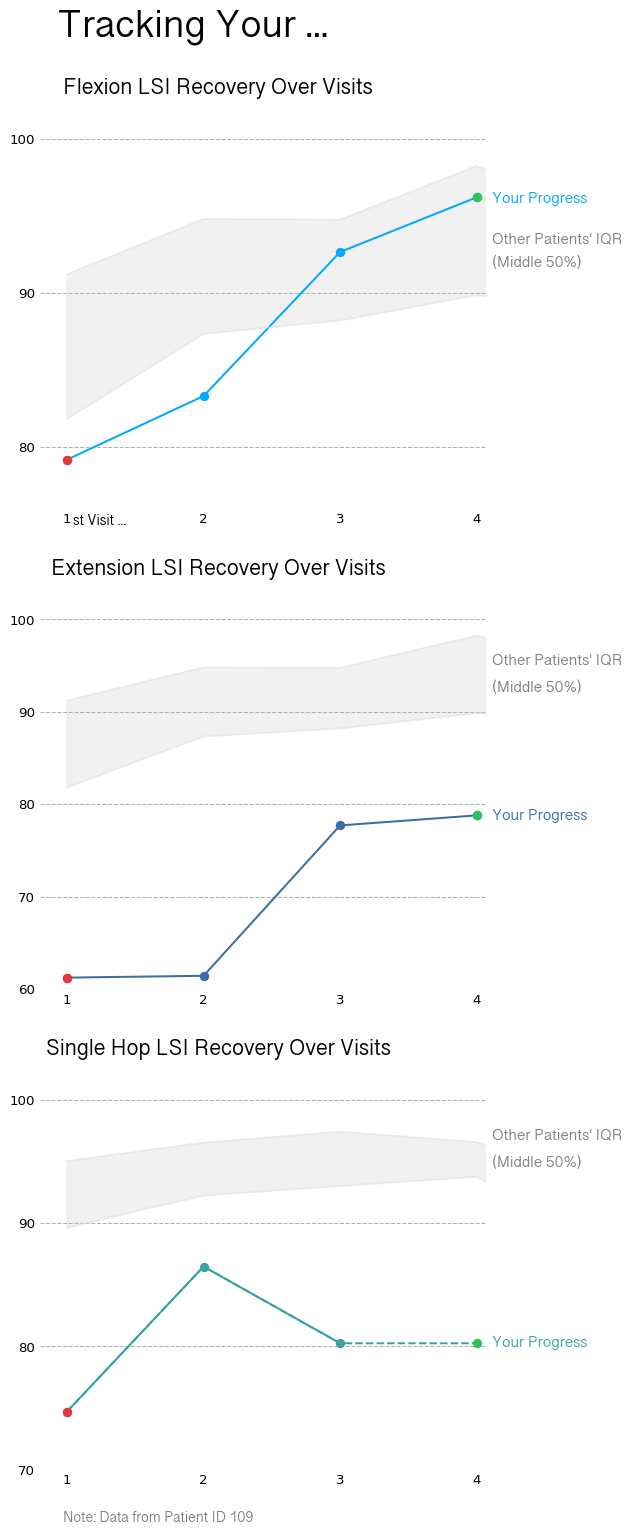
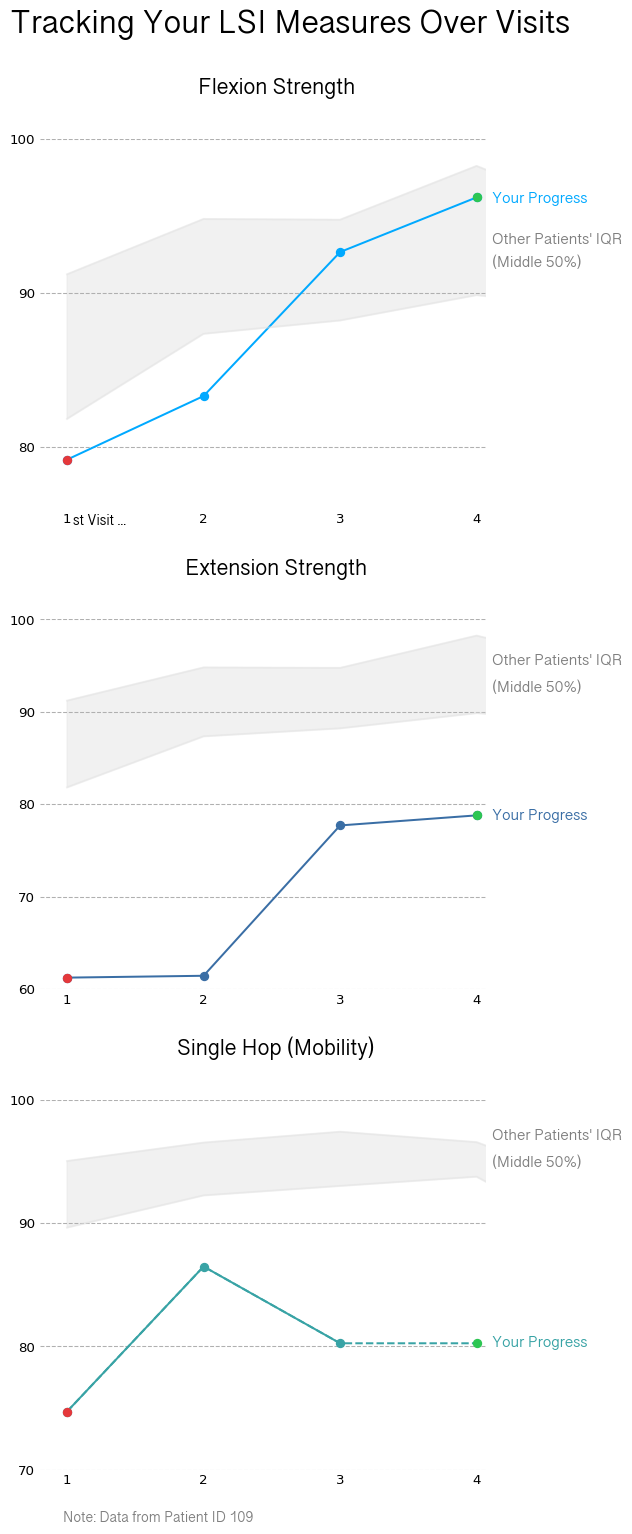
minor graph changes

diff --git a/docs/Graphs/Visualizations_book.html b/docs/Graphs/Visualizations_book.html
@@ -6,9 +6,9 @@
 
 <meta name="viewport" content="width=device-width, initial-scale=1.0, user-scalable=yes">
 
-<meta name="description" content="An outline for the DS2023 Communicating with Data final project report.">
+<meta name="description" content="An outline for DS2023 Communicating with Data final project report.">
 
-<title>Visualizations – DS2023 Final Project (Rename)</title>
+<title>Visualizations – You’re Pulling My Leg:Visualizing a Patient’s ACLR Journey</title>
 <style>
 code{white-space: pre-wrap;}
 span.smallcaps{font-variant: small-caps;}
@@ -135,7 +135,7 @@ pre > code.sourceCode > span > a:first-child::before { text-decoration: underlin
       <img src="../logo.png" alt="" class="sidebar-logo py-0 d-lg-inline d-none">
       </a>
     <div class="sidebar-title mb-0 py-0">
-      <a href="../">DS2023 Final Project (Rename)</a> 
+      <a href="../">You’re Pulling My Leg:<br>Visualizing a Patient’s ACLR Journey</a> 
         <div class="sidebar-tools-main">
     <a href="https://github.com/mayooueidat-uva/ACLR-group-project/tree/main" title="Source Code" class="quarto-navigation-tool px-1" aria-label="Source Code"><i class="bi bi-github"></i></a>
 </div>
@@ -217,7 +217,7 @@ pre > code.sourceCode > span > a:first-child::before { text-decoration: underlin
 </header>
 
 
-<div id="c96afa53" class="cell" data-execution_count="1">
+<div id="dad07fcb" class="cell" data-execution_count="1">
 <div class="sourceCode cell-code" id="cb1"><pre class="sourceCode python code-with-copy"><code class="sourceCode python"><span id="cb1-1"><a href="#cb1-1" aria-hidden="true" tabindex="-1"></a><span class="im">import</span> matplotlib.pyplot <span class="im">as</span> plt</span>
 <span id="cb1-2"><a href="#cb1-2" aria-hidden="true" tabindex="-1"></a><span class="im">import</span> pandas <span class="im">as</span> pd</span>
 <span id="cb1-3"><a href="#cb1-3" aria-hidden="true" tabindex="-1"></a><span class="im">import</span> numpy <span class="im">as</span> np</span>
@@ -230,7 +230,7 @@ pre > code.sourceCode > span > a:first-child::before { text-decoration: underlin
 <h2 class="anchored" data-anchor-id="graph-1-flexion-lsi-over-time">Graph 1: Flexion LSI over time</h2>
 <p>When it comes to a <strong>patient</strong> understanding <strong>their</strong> ACLR recovery, being able to visually see changes across time makes understanding their recovery progress easier. Through a line plot, a patient can visually see that progression over multiple visits, allowing them to notice any irregularities that go against the general pattern, which is usually an increase in the recovery statistic. Additionally, having a background population of patients who also underwent ACLR surgery acts as a comparison point, allowing them to compare themselves to a group of people who have gone through a similar recovery process. Having the patient be able to picture themselves in the data is important, as we want for them to understand where they stand in recovery without explicitly knowing miniscule details about medical terminology. Sometimes, seeing yourself as a positive sloping line among a positive sloping population is enough to understand that recovery is going smoothly.</p>
 <p>This is a line graph that captures a single patient’s recovery progress for Flexion LSI (using a randomly chosen patient with at least 4 visits). Additionally, it has Flexion LSI data over visits from all the patients in the study, which acts as a comparison point for the patient. The population data is shaded to show the IQR, which is the 25th to 75th percentile. My goal is for the patient to be able to picture himself/herself in recovery and understand that test results usually get better over time.</p>
-<div id="edd832e2" class="cell" data-execution_count="2">
+<div id="75baa289" class="cell" data-execution_count="2">
 <div class="sourceCode cell-code" id="cb2"><pre class="sourceCode python code-with-copy"><code class="sourceCode python"><span id="cb2-1"><a href="#cb2-1" aria-hidden="true" tabindex="-1"></a><span class="co"># Plot IQR 25 to 75, and fill the space between</span></span>
 <span id="cb2-2"><a href="#cb2-2" aria-hidden="true" tabindex="-1"></a>plt.plot(flsi_percentiles[<span class="st">'visit_num'</span>], flsi_percentiles[<span class="st">'q25'</span>], color<span class="op">=</span><span class="st">"#E5E5E5"</span>, alpha<span class="op">=</span><span class="fl">0.5</span>)</span>
 <span id="cb2-3"><a href="#cb2-3" aria-hidden="true" tabindex="-1"></a>plt.plot(flsi_percentiles[<span class="st">'visit_num'</span>], flsi_percentiles[<span class="st">'q75'</span>], color<span class="op">=</span><span class="st">"#E5E5E5"</span>, alpha<span class="op">=</span><span class="fl">0.5</span>)</span>
@@ -254,7 +254,7 @@ pre > code.sourceCode > span > a:first-child::before { text-decoration: underlin
 <span id="cb2-21"><a href="#cb2-21" aria-hidden="true" tabindex="-1"></a>plt.figtext(<span class="fl">0.91</span>, <span class="fl">0.76</span>, <span class="st">'Your Progress'</span>, size <span class="op">=</span> <span class="dv">12</span>, color<span class="op">=</span><span class="st">'#00A9FF'</span>, fontfamily<span class="op">=</span><span class="st">'Sinhala Sangam MN'</span>)</span>
 <span id="cb2-22"><a href="#cb2-22" aria-hidden="true" tabindex="-1"></a>plt.figtext(<span class="fl">0.91</span>, <span class="fl">0.68</span>, <span class="st">"Other Patients' IQR"</span>, size <span class="op">=</span> <span class="dv">12</span>, color<span class="op">=</span><span class="st">'gray'</span>, fontfamily<span class="op">=</span><span class="st">'Sinhala Sangam MN'</span>)</span>
 <span id="cb2-23"><a href="#cb2-23" aria-hidden="true" tabindex="-1"></a>plt.figtext(<span class="fl">0.91</span>, <span class="fl">0.63</span>, <span class="st">"(Middle 50%)"</span>, size <span class="op">=</span> <span class="dv">12</span>, color<span class="op">=</span><span class="st">'gray'</span>, fontfamily<span class="op">=</span><span class="st">'Sinhala Sangam MN'</span>)</span>
-<span id="cb2-24"><a href="#cb2-24" aria-hidden="true" tabindex="-1"></a>plt.figtext(<span class="fl">0.182</span>, <span class="fl">0.0755</span>, <span class="st">"st Visit ..."</span>, size <span class="op">=</span> <span class="dv">11</span>, color<span class="op">=</span><span class="st">'black'</span>, fontfamily<span class="op">=</span><span class="st">'Sinhala Sangam MN'</span>)</span>
+<span id="cb2-24"><a href="#cb2-24" aria-hidden="true" tabindex="-1"></a>plt.figtext(<span class="fl">0.182</span>, <span class="fl">0.076</span>, <span class="st">"st Visit ..."</span>, size <span class="op">=</span> <span class="dv">11</span>, color<span class="op">=</span><span class="st">'black'</span>, fontfamily<span class="op">=</span><span class="st">'Sinhala Sangam MN'</span>)</span>
 <span id="cb2-25"><a href="#cb2-25" aria-hidden="true" tabindex="-1"></a>plt.figtext(<span class="fl">0.165</span>, <span class="fl">0.019</span>, <span class="st">"Note: Data from Patient ID 109"</span>, size <span class="op">=</span> <span class="dv">11</span>, color<span class="op">=</span><span class="st">'gray'</span>, fontfamily<span class="op">=</span><span class="st">'Sinhala Sangam MN'</span>)</span>
 <span id="cb2-26"><a href="#cb2-26" aria-hidden="true" tabindex="-1"></a></span>
 <span id="cb2-27"><a href="#cb2-27" aria-hidden="true" tabindex="-1"></a><span class="co"># Customize graph</span></span>
@@ -287,7 +287,7 @@ pre > code.sourceCode > span > a:first-child::before { text-decoration: underlin
 <section id="graph-1-continued-line-plot-series" class="level2">
 <h2 class="anchored" data-anchor-id="graph-1-continued-line-plot-series">Graph 1 Continued: Line Plot Series</h2>
 <p>As a continuation from the first graph, this visualization shows subplots of three LSI (limb symmetry index) scores across visits. Patients may find it helpful to see how their different functional assessments differ. The goal of this graph is for the patient to easily see their improvements or deficiencies.</p>
-<div id="2308d306" class="cell" data-execution_count="3">
+<div id="4b838096" class="cell" data-execution_count="3">
 <div class="sourceCode cell-code" id="cb3"><pre class="sourceCode python code-with-copy"><code class="sourceCode python"><span id="cb3-1"><a href="#cb3-1" aria-hidden="true" tabindex="-1"></a><span class="co"># Create data for subplots</span></span>
 <span id="cb3-2"><a href="#cb3-2" aria-hidden="true" tabindex="-1"></a></span>
 <span id="cb3-3"><a href="#cb3-3" aria-hidden="true" tabindex="-1"></a><span class="co"># Extension LSI</span></span>
@@ -318,7 +318,7 @@ pre > code.sourceCode > span > a:first-child::before { text-decoration: underlin
 <span id="cb3-28"><a href="#cb3-28" aria-hidden="true" tabindex="-1"></a>sh_lsi_percentiles[<span class="st">'visit_num'</span>] <span class="op">=</span> sh_lsi_percentiles[<span class="st">'redcap_event_name'</span>].<span class="bu">map</span>(visit_map)</span>
 <span id="cb3-29"><a href="#cb3-29" aria-hidden="true" tabindex="-1"></a>sh_lsi_percentiles <span class="op">=</span> sh_lsi_percentiles[sh_lsi_percentiles[<span class="st">'redcap_event_name'</span>] <span class="op">!=</span> <span class="st">'data_upload_arm_2'</span>]</span></code><button title="Copy to Clipboard" class="code-copy-button"><i class="bi"></i></button></pre></div>
 </div>
-<div id="9c591c9c" class="cell" data-execution_count="4">
+<div id="11a4782e" class="cell" data-execution_count="4">
 <div class="sourceCode cell-code" id="cb4"><pre class="sourceCode python code-with-copy"><code class="sourceCode python"><span id="cb4-1"><a href="#cb4-1" aria-hidden="true" tabindex="-1"></a>fig, axs <span class="op">=</span> plt.subplots(<span class="dv">3</span>,<span class="dv">1</span>, figsize<span class="op">=</span>(<span class="dv">6</span>, <span class="dv">18</span>)) <span class="co"># set the figure size and have 3 small multiples within the figure</span></span>
 <span id="cb4-2"><a href="#cb4-2" aria-hidden="true" tabindex="-1"></a></span>
 <span id="cb4-3"><a href="#cb4-3" aria-hidden="true" tabindex="-1"></a>axs <span class="op">=</span> axs.flatten()</span>
@@ -339,7 +339,7 @@ pre > code.sourceCode > span > a:first-child::before { text-decoration: underlin
 <span id="cb4-18"><a href="#cb4-18" aria-hidden="true" tabindex="-1"></a>axs[<span class="dv">0</span>].plot(highlight_data[<span class="st">'visit_num'</span>].iloc[<span class="dv">3</span>], highlight_data[<span class="st">'lsi_flex_isok_60'</span>].iloc[<span class="dv">3</span>], marker<span class="op">=</span><span class="st">'o'</span>, color<span class="op">=</span><span class="st">'#2DC653'</span>, markersize<span class="op">=</span><span class="dv">6</span>)</span>
 <span id="cb4-19"><a href="#cb4-19" aria-hidden="true" tabindex="-1"></a></span>
 <span id="cb4-20"><a href="#cb4-20" aria-hidden="true" tabindex="-1"></a><span class="co"># Add title and customize graph</span></span>
-<span id="cb4-21"><a href="#cb4-21" aria-hidden="true" tabindex="-1"></a>axs[<span class="dv">0</span>].set_title(<span class="st">'Flexion LSI Recovery Over Visits'</span>, weight<span class="op">=</span><span class="st">'bold'</span>, size<span class="op">=</span><span class="dv">17</span>, x<span class="op">=</span><span class="fl">0.4</span>, y<span class="op">=</span><span class="fl">1.1</span>, fontfamily<span class="op">=</span><span class="st">'Sinhala Sangam MN'</span>)</span>
+<span id="cb4-21"><a href="#cb4-21" aria-hidden="true" tabindex="-1"></a>axs[<span class="dv">0</span>].set_title(<span class="st">'Flexion Strength'</span>, weight<span class="op">=</span><span class="st">'bold'</span>, size<span class="op">=</span><span class="dv">17</span>, x<span class="op">=</span><span class="fl">0.53</span>, y<span class="op">=</span><span class="fl">1.1</span>, fontfamily<span class="op">=</span><span class="st">'Sinhala Sangam MN'</span>)</span>
 <span id="cb4-22"><a href="#cb4-22" aria-hidden="true" tabindex="-1"></a>axs[<span class="dv">0</span>].set_xlim(<span class="fl">.8</span>, <span class="fl">4.07</span>)</span>
 <span id="cb4-23"><a href="#cb4-23" aria-hidden="true" tabindex="-1"></a>axs[<span class="dv">0</span>].set_xticks([<span class="dv">1</span>, <span class="dv">2</span>, <span class="dv">3</span>, <span class="dv">4</span>])</span>
 <span id="cb4-24"><a href="#cb4-24" aria-hidden="true" tabindex="-1"></a>axs[<span class="dv">0</span>].set_ylim(<span class="dv">76</span>, <span class="dv">100</span>)</span>
@@ -370,7 +370,7 @@ pre > code.sourceCode > span > a:first-child::before { text-decoration: underlin
 <span id="cb4-49"><a href="#cb4-49" aria-hidden="true" tabindex="-1"></a>axs[<span class="dv">1</span>].plot(highlight_data[<span class="st">'visit_num'</span>].iloc[<span class="dv">3</span>], highlight_data[<span class="st">'lsi_ext_isok_60'</span>].iloc[<span class="dv">3</span>], marker<span class="op">=</span><span class="st">'o'</span>, color<span class="op">=</span><span class="st">'#2DC653'</span>, markersize<span class="op">=</span><span class="dv">6</span>)</span>
 <span id="cb4-50"><a href="#cb4-50" aria-hidden="true" tabindex="-1"></a></span>
 <span id="cb4-51"><a href="#cb4-51" aria-hidden="true" tabindex="-1"></a><span class="co"># Add title and customize graph</span></span>
-<span id="cb4-52"><a href="#cb4-52" aria-hidden="true" tabindex="-1"></a>axs[<span class="dv">1</span>].set_title(<span class="st">'Extension LSI Recovery Over Visits'</span>, weight<span class="op">=</span><span class="st">'bold'</span>, size<span class="op">=</span><span class="dv">17</span>, x<span class="op">=</span><span class="fl">0.4</span>, y<span class="op">=</span><span class="fl">1.1</span>, fontfamily<span class="op">=</span><span class="st">'Sinhala Sangam MN'</span>)</span>
+<span id="cb4-52"><a href="#cb4-52" aria-hidden="true" tabindex="-1"></a>axs[<span class="dv">1</span>].set_title(<span class="st">'Extension Strength'</span>, weight<span class="op">=</span><span class="st">'bold'</span>, size<span class="op">=</span><span class="dv">17</span>, x<span class="op">=</span><span class="fl">0.53</span>, y<span class="op">=</span><span class="fl">1.1</span>, fontfamily<span class="op">=</span><span class="st">'Sinhala Sangam MN'</span>)</span>
 <span id="cb4-53"><a href="#cb4-53" aria-hidden="true" tabindex="-1"></a>axs[<span class="dv">1</span>].set_xlim(<span class="fl">.8</span>, <span class="fl">4.07</span>)</span>
 <span id="cb4-54"><a href="#cb4-54" aria-hidden="true" tabindex="-1"></a>axs[<span class="dv">1</span>].set_xticks([<span class="dv">1</span>, <span class="dv">2</span>, <span class="dv">3</span>, <span class="dv">4</span>])</span>
 <span id="cb4-55"><a href="#cb4-55" aria-hidden="true" tabindex="-1"></a>axs[<span class="dv">1</span>].set_ylim(<span class="dv">60</span>, <span class="dv">100</span>)</span>
@@ -403,7 +403,7 @@ pre > code.sourceCode > span > a:first-child::before { text-decoration: underlin
 <span id="cb4-82"><a href="#cb4-82" aria-hidden="true" tabindex="-1"></a>axs[<span class="dv">2</span>].plot(highlight_data[<span class="st">'visit_num'</span>].iloc[<span class="dv">3</span>], interpolated_sh_lsi.iloc[<span class="dv">3</span>], marker<span class="op">=</span><span class="st">'o'</span>, color<span class="op">=</span><span class="st">'#2DC653'</span>, markersize<span class="op">=</span><span class="dv">6</span>)</span>
 <span id="cb4-83"><a href="#cb4-83" aria-hidden="true" tabindex="-1"></a></span>
 <span id="cb4-84"><a href="#cb4-84" aria-hidden="true" tabindex="-1"></a><span class="co"># Add title and customize graph</span></span>
-<span id="cb4-85"><a href="#cb4-85" aria-hidden="true" tabindex="-1"></a>axs[<span class="dv">2</span>].set_title(<span class="st">'Single Hop LSI Recovery Over Visits'</span>, weight<span class="op">=</span><span class="st">'bold'</span>, size<span class="op">=</span><span class="dv">17</span>, x<span class="op">=</span><span class="fl">0.4</span>, y<span class="op">=</span><span class="fl">1.1</span>, fontfamily<span class="op">=</span><span class="st">'Sinhala Sangam MN'</span>)</span>
+<span id="cb4-85"><a href="#cb4-85" aria-hidden="true" tabindex="-1"></a>axs[<span class="dv">2</span>].set_title(<span class="st">'Single Hop (Mobility)'</span>, weight<span class="op">=</span><span class="st">'bold'</span>, size<span class="op">=</span><span class="dv">17</span>, x<span class="op">=</span><span class="fl">0.53</span>, y<span class="op">=</span><span class="fl">1.1</span>, fontfamily<span class="op">=</span><span class="st">'Sinhala Sangam MN'</span>)</span>
 <span id="cb4-86"><a href="#cb4-86" aria-hidden="true" tabindex="-1"></a>axs[<span class="dv">2</span>].set_xlim(<span class="fl">.8</span>, <span class="fl">4.07</span>)</span>
 <span id="cb4-87"><a href="#cb4-87" aria-hidden="true" tabindex="-1"></a>axs[<span class="dv">2</span>].set_xticks([<span class="dv">1</span>, <span class="dv">2</span>, <span class="dv">3</span>, <span class="dv">4</span>])</span>
 <span id="cb4-88"><a href="#cb4-88" aria-hidden="true" tabindex="-1"></a>axs[<span class="dv">2</span>].set_ylim(<span class="dv">70</span>, <span class="dv">100</span>)</span>
@@ -422,7 +422,7 @@ pre > code.sourceCode > span > a:first-child::before { text-decoration: underlin
 <span id="cb4-101"><a href="#cb4-101" aria-hidden="true" tabindex="-1"></a><span class="co"># Overall graph customizations ---------------------------------------------------------------------------------------------------------------</span></span>
 <span id="cb4-102"><a href="#cb4-102" aria-hidden="true" tabindex="-1"></a>plt.figtext(<span class="fl">0.182</span>, <span class="fl">0.657</span>, <span class="st">"st Visit ..."</span>, size <span class="op">=</span> <span class="dv">11</span>, color<span class="op">=</span><span class="st">'black'</span>, fontfamily<span class="op">=</span><span class="st">'Sinhala Sangam MN'</span>)</span>
 <span id="cb4-103"><a href="#cb4-103" aria-hidden="true" tabindex="-1"></a>plt.figtext(<span class="fl">0.165</span>, <span class="fl">0.08</span>, <span class="st">"Note: Data from Patient ID 109"</span>, size<span class="op">=</span><span class="dv">11</span>, color<span class="op">=</span><span class="st">'gray'</span>, fontfamily<span class="op">=</span><span class="st">'Sinhala Sangam MN'</span>)</span>
-<span id="cb4-104"><a href="#cb4-104" aria-hidden="true" tabindex="-1"></a>plt.suptitle(<span class="st">'Tracking Your ...'</span>, weight<span class="op">=</span><span class="st">'bold'</span>, fontfamily<span class="op">=</span><span class="st">'Sinhala Sangam MN'</span>, size<span class="op">=</span><span class="dv">30</span>, x<span class="op">=</span><span class="fl">0.39</span>, y<span class="op">=</span><span class="fl">.955</span>)</span>
+<span id="cb4-104"><a href="#cb4-104" aria-hidden="true" tabindex="-1"></a>plt.suptitle(<span class="st">'Tracking Your LSI Measures Over Visits'</span>, weight<span class="op">=</span><span class="st">'bold'</span>, fontfamily<span class="op">=</span><span class="st">'Sinhala Sangam MN'</span>, size<span class="op">=</span><span class="dv">25</span>, x<span class="op">=</span><span class="fl">0.56</span>, y<span class="op">=</span><span class="fl">.955</span>)</span>
 <span id="cb4-105"><a href="#cb4-105" aria-hidden="true" tabindex="-1"></a>plt.subplots_adjust(hspace<span class="op">=</span><span class="fl">0.3</span>)</span>
 <span id="cb4-106"><a href="#cb4-106" aria-hidden="true" tabindex="-1"></a>plt.subplots_adjust(hspace<span class="op">=</span><span class="fl">0.3</span>)</span>
 <span id="cb4-107"><a href="#cb4-107" aria-hidden="true" tabindex="-1"></a></span>
@@ -441,7 +441,7 @@ pre > code.sourceCode > span > a:first-child::before { text-decoration: underlin
 <h2 class="anchored" data-anchor-id="graph-2-probability-distribution-of-acl-rsi-scores">Graph 2: Probability Distribution of ACL-RSI scores</h2>
 <p>Though the lineplot is useful for showcasing an individual patient’s progress over time, it is not effective for portraying the distribution of the ACL-RSI scores; therefore, we want to use a kernel density estimate plot stratified by visit number. We deliberately excluded 5th, 7th, 7th, 8th, and 9th visits to keep consistency with the line plots.</p>
 <p>Compared to line plots, the KDEplot is less familiar most people, and it will most certainly be unfamiliar to our target audience. Therefore, our graph includes an explanation of what it is supposed to portray. We hope that our visualization will demonstrate that people are <em>more likely</em> to have higher ACL-RSI scores as time passes and reassure patients who fear they will never feel ready to return to sport.</p>
-<div id="5d852db0" class="cell" data-execution_count="5">
+<div id="4b3bdda2" class="cell" data-execution_count="5">
 <div class="sourceCode cell-code" id="cb5"><pre class="sourceCode python code-with-copy"><code class="sourceCode python"><span id="cb5-1"><a href="#cb5-1" aria-hidden="true" tabindex="-1"></a><span class="co"># plotting kernel density estimate plots</span></span>
 <span id="cb5-2"><a href="#cb5-2" aria-hidden="true" tabindex="-1"></a>sns.kdeplot(data<span class="op">=</span>data.where(data[<span class="st">"visit_num"</span>]<span class="op">==</span><span class="dv">1</span>).dropna(), x<span class="op">=</span><span class="st">"acl_rsi"</span>, color<span class="op">=</span><span class="st">"#DDDDDD"</span>)</span>
 <span id="cb5-3"><a href="#cb5-3" aria-hidden="true" tabindex="-1"></a>sns.kdeplot(data<span class="op">=</span>data.where(data[<span class="st">"visit_num"</span>]<span class="op">==</span><span class="dv">2</span>).dropna(), x<span class="op">=</span><span class="st">"acl_rsi"</span>, color<span class="op">=</span><span class="st">"#BBBBBB"</span>)</span>
@@ -485,7 +485,7 @@ pre > code.sourceCode > span > a:first-child::before { text-decoration: underlin
 <section id="graph-3-distribution-of-lsi-extension-strength-by-age-group" class="level2">
 <h2 class="anchored" data-anchor-id="graph-3-distribution-of-lsi-extension-strength-by-age-group">Graph 3: Distribution of LSI Extension Strength by Age Group</h2>
 <p>The box plot offers a more familiar and straightforward way to visualize data for our target audience of young athletes. Each box represents the interquartile range (IQR) of LSI Extension Strength (60°/s) within an age group, while the whiskers show variability and the dots highlight outliers. This format allows patients and their families to quickly understand how their strength compares to others in their age group. The visualization reassures patients that some variation is normal and that most people fall within a certain performance band, particularly as they progress in recovery. By stratifying the data by age group, we emphasize that strength recovery can vary with age, which is helpful for setting age-appropriate expectations during rehab.</p>
-<div id="1860647f" class="cell" data-execution_count="6">
+<div id="76c98ef0" class="cell" data-execution_count="6">
 <div class="sourceCode cell-code" id="cb6"><pre class="sourceCode python code-with-copy"><code class="sourceCode python"><span id="cb6-1"><a href="#cb6-1" aria-hidden="true" tabindex="-1"></a>bins <span class="op">=</span> [<span class="dv">0</span>, <span class="dv">12</span>, <span class="dv">15</span>, <span class="dv">18</span>, <span class="dv">21</span>, <span class="dv">25</span>, <span class="dv">100</span>]</span>
 <span id="cb6-2"><a href="#cb6-2" aria-hidden="true" tabindex="-1"></a>labels <span class="op">=</span> [<span class="st">'10-12'</span>, <span class="st">'13-15'</span>, <span class="st">'16-18'</span>, <span class="st">'19-21'</span>, <span class="st">'22-25'</span>, <span class="st">'26+'</span>]</span>
 <span id="cb6-3"><a href="#cb6-3" aria-hidden="true" tabindex="-1"></a>data[<span class="st">'age_group'</span>] <span class="op">=</span> pd.cut(data[<span class="st">'age'</span>], bins<span class="op">=</span>bins, labels<span class="op">=</span>labels)</span>
@@ -540,7 +540,7 @@ pre > code.sourceCode > span > a:first-child::before { text-decoration: underlin
 <span id="cb6-52"><a href="#cb6-52" aria-hidden="true" tabindex="-1"></a><span class="co"># Save final image</span></span>
 <span id="cb6-53"><a href="#cb6-53" aria-hidden="true" tabindex="-1"></a>plt.savefig(<span class="st">'./graph_images/boxplots.png'</span>, bbox_inches<span class="op">=</span><span class="st">'tight'</span>)</span></code><button title="Copy to Clipboard" class="code-copy-button"><i class="bi"></i></button></pre></div>
 <div class="cell-output cell-output-stderr">
-<pre><code>/var/folders/y3/qpldbqrx2dn72lflj336s6l00000gn/T/ipykernel_85392/1802104442.py:15: FutureWarning:
+<pre><code>/var/folders/y3/qpldbqrx2dn72lflj336s6l00000gn/T/ipykernel_24388/1802104442.py:15: FutureWarning:
 
 
 

diff --git a/docs/index.html b/docs/index.html
@@ -205,7 +205,7 @@ ul.task-list li input[type="checkbox"] {
 </section>
 <section id="problem-statement" class="level2">
 <h2 class="anchored" data-anchor-id="problem-statement">Problem Statement</h2>
-<p>[Clearly define the problem you are addressing. Include background context and the significance of the issue. This is beginning of your story - plot setting. Can include a graph]</p>
+<p>ACL Reconstruction marks a crucial milestone on the journey back to full activity for our predominantly adolescent and young adult patients (ages 12–20), yet too often they’re handed mountains of clinical jargon and tables of Limb Symmetry Index scores that feel abstract and alienating. Without a way to “see themselves” in the data, seeing their own recovery line rise alongside a cohort of peers, patients risk drifting into uncertainty, losing confidence in their rehab plan, or even disengaging altogether. What we need instead is a set of interactive visualizations that place each individual’s progress front and center against meaningful benchmarks drawn from similar patients, transforming these numbers into a clear, reassuring narrative. By turning technical metrics into intuitive, story‑driven graphics, our goal is to empower patients to recognize their own upward trajectory, understand where they stand relative to others, and make informed decisions with confidence—ultimately replacing anxiety with motivation and ensuring that no one feels lost on their path to recovery.</p>
 </section>
 <section id="analysis" class="level2">
 <h2 class="anchored" data-anchor-id="analysis">Analysis</h2>
@@ -220,6 +220,8 @@ ul.task-list li input[type="checkbox"] {
 <p><img src="./Graphs/graph_images/line_series.png" class="img-fluid quarto-figure quarto-figure-center figure-img" style="width:40.0%"></p>
 </figure>
 </div>
+<p><img src="./Graphs/graph_images/kde_aclrsi.png" class="img-fluid"></p>
+<p><img src="./Graphs/graph_images/boxplots.png" class="img-fluid"></p>
 </section>
 <section id="conclusion" class="level2">
 <h2 class="anchored" data-anchor-id="conclusion">Conclusion</h2>

diff --git a/docs/EDA/EDA_book.html b/docs/EDA/EDA_book.html
@@ -6,9 +6,9 @@
 
 <meta name="viewport" content="width=device-width, initial-scale=1.0, user-scalable=yes">
 
-<meta name="description" content="An outline for the DS2023 Communicating with Data final project report.">
+<meta name="description" content="An outline for DS2023 Communicating with Data final project report.">
 
-<title>Exploratory Data Analysis – DS2023 Final Project (Rename)</title>
+<title>Exploratory Data Analysis – You’re Pulling My Leg:Visualizing a Patient’s ACLR Journey</title>
 <style>
 code{white-space: pre-wrap;}
 span.smallcaps{font-variant: small-caps;}
@@ -138,7 +138,7 @@ pre > code.sourceCode > span > a:first-child::before { text-decoration: underlin
       <img src="../logo.png" alt="" class="sidebar-logo py-0 d-lg-inline d-none">
       </a>
     <div class="sidebar-title mb-0 py-0">
-      <a href="../">DS2023 Final Project (Rename)</a> 
+      <a href="../">You’re Pulling My Leg:<br>Visualizing a Patient’s ACLR Journey</a> 
         <div class="sidebar-tools-main">
     <a href="https://github.com/mayooueidat-uva/ACLR-group-project/tree/main" title="Source Code" class="quarto-navigation-tool px-1" aria-label="Source Code"><i class="bi bi-github"></i></a>
 </div>

diff --git a/docs/EDA/datacleaning_forbook.html b/docs/EDA/datacleaning_forbook.html
@@ -6,9 +6,9 @@
 
 <meta name="viewport" content="width=device-width, initial-scale=1.0, user-scalable=yes">
 
-<meta name="description" content="An outline for the DS2023 Communicating with Data final project report.">
+<meta name="description" content="An outline for DS2023 Communicating with Data final project report.">
 
-<title>Data Cleaning – DS2023 Final Project (Rename)</title>
+<title>Data Cleaning – You’re Pulling My Leg:Visualizing a Patient’s ACLR Journey</title>
 <style>
 code{white-space: pre-wrap;}
 span.smallcaps{font-variant: small-caps;}
@@ -138,7 +138,7 @@ pre > code.sourceCode > span > a:first-child::before { text-decoration: underlin
       <img src="../logo.png" alt="" class="sidebar-logo py-0 d-lg-inline d-none">
       </a>
     <div class="sidebar-title mb-0 py-0">
-      <a href="../">DS2023 Final Project (Rename)</a> 
+      <a href="../">You’re Pulling My Leg:<br>Visualizing a Patient’s ACLR Journey</a> 
         <div class="sidebar-tools-main">
     <a href="https://github.com/mayooueidat-uva/ACLR-group-project/tree/main" title="Source Code" class="quarto-navigation-tool px-1" aria-label="Source Code"><i class="bi bi-github"></i></a>
 </div>

diff --git a/docs/datadictionary.html b/docs/datadictionary.html
@@ -6,9 +6,9 @@
 
 <meta name="viewport" content="width=device-width, initial-scale=1.0, user-scalable=yes">
 
-<meta name="description" content="An outline for the DS2023 Communicating with Data final project report.">
+<meta name="description" content="An outline for DS2023 Communicating with Data final project report.">
 
-<title>Data Dictionary – DS2023 Final Project (Rename)</title>
+<title>Data Dictionary – You’re Pulling My Leg:Visualizing a Patient’s ACLR Journey</title>
 <style>
 code{white-space: pre-wrap;}
 span.smallcaps{font-variant: small-caps;}
@@ -100,7 +100,7 @@ ul.task-list li input[type="checkbox"] {
       <img src="./logo.png" alt="" class="sidebar-logo py-0 d-lg-inline d-none">
       </a>
     <div class="sidebar-title mb-0 py-0">
-      <a href="./">DS2023 Final Project (Rename)</a> 
+      <a href="./">You’re Pulling My Leg:<br>Visualizing a Patient’s ACLR Journey</a> 
         <div class="sidebar-tools-main">
     <a href="https://github.com/mayooueidat-uva/ACLR-group-project/tree/main" title="Source Code" class="quarto-navigation-tool px-1" aria-label="Source Code"><i class="bi bi-github"></i></a>
 </div>
